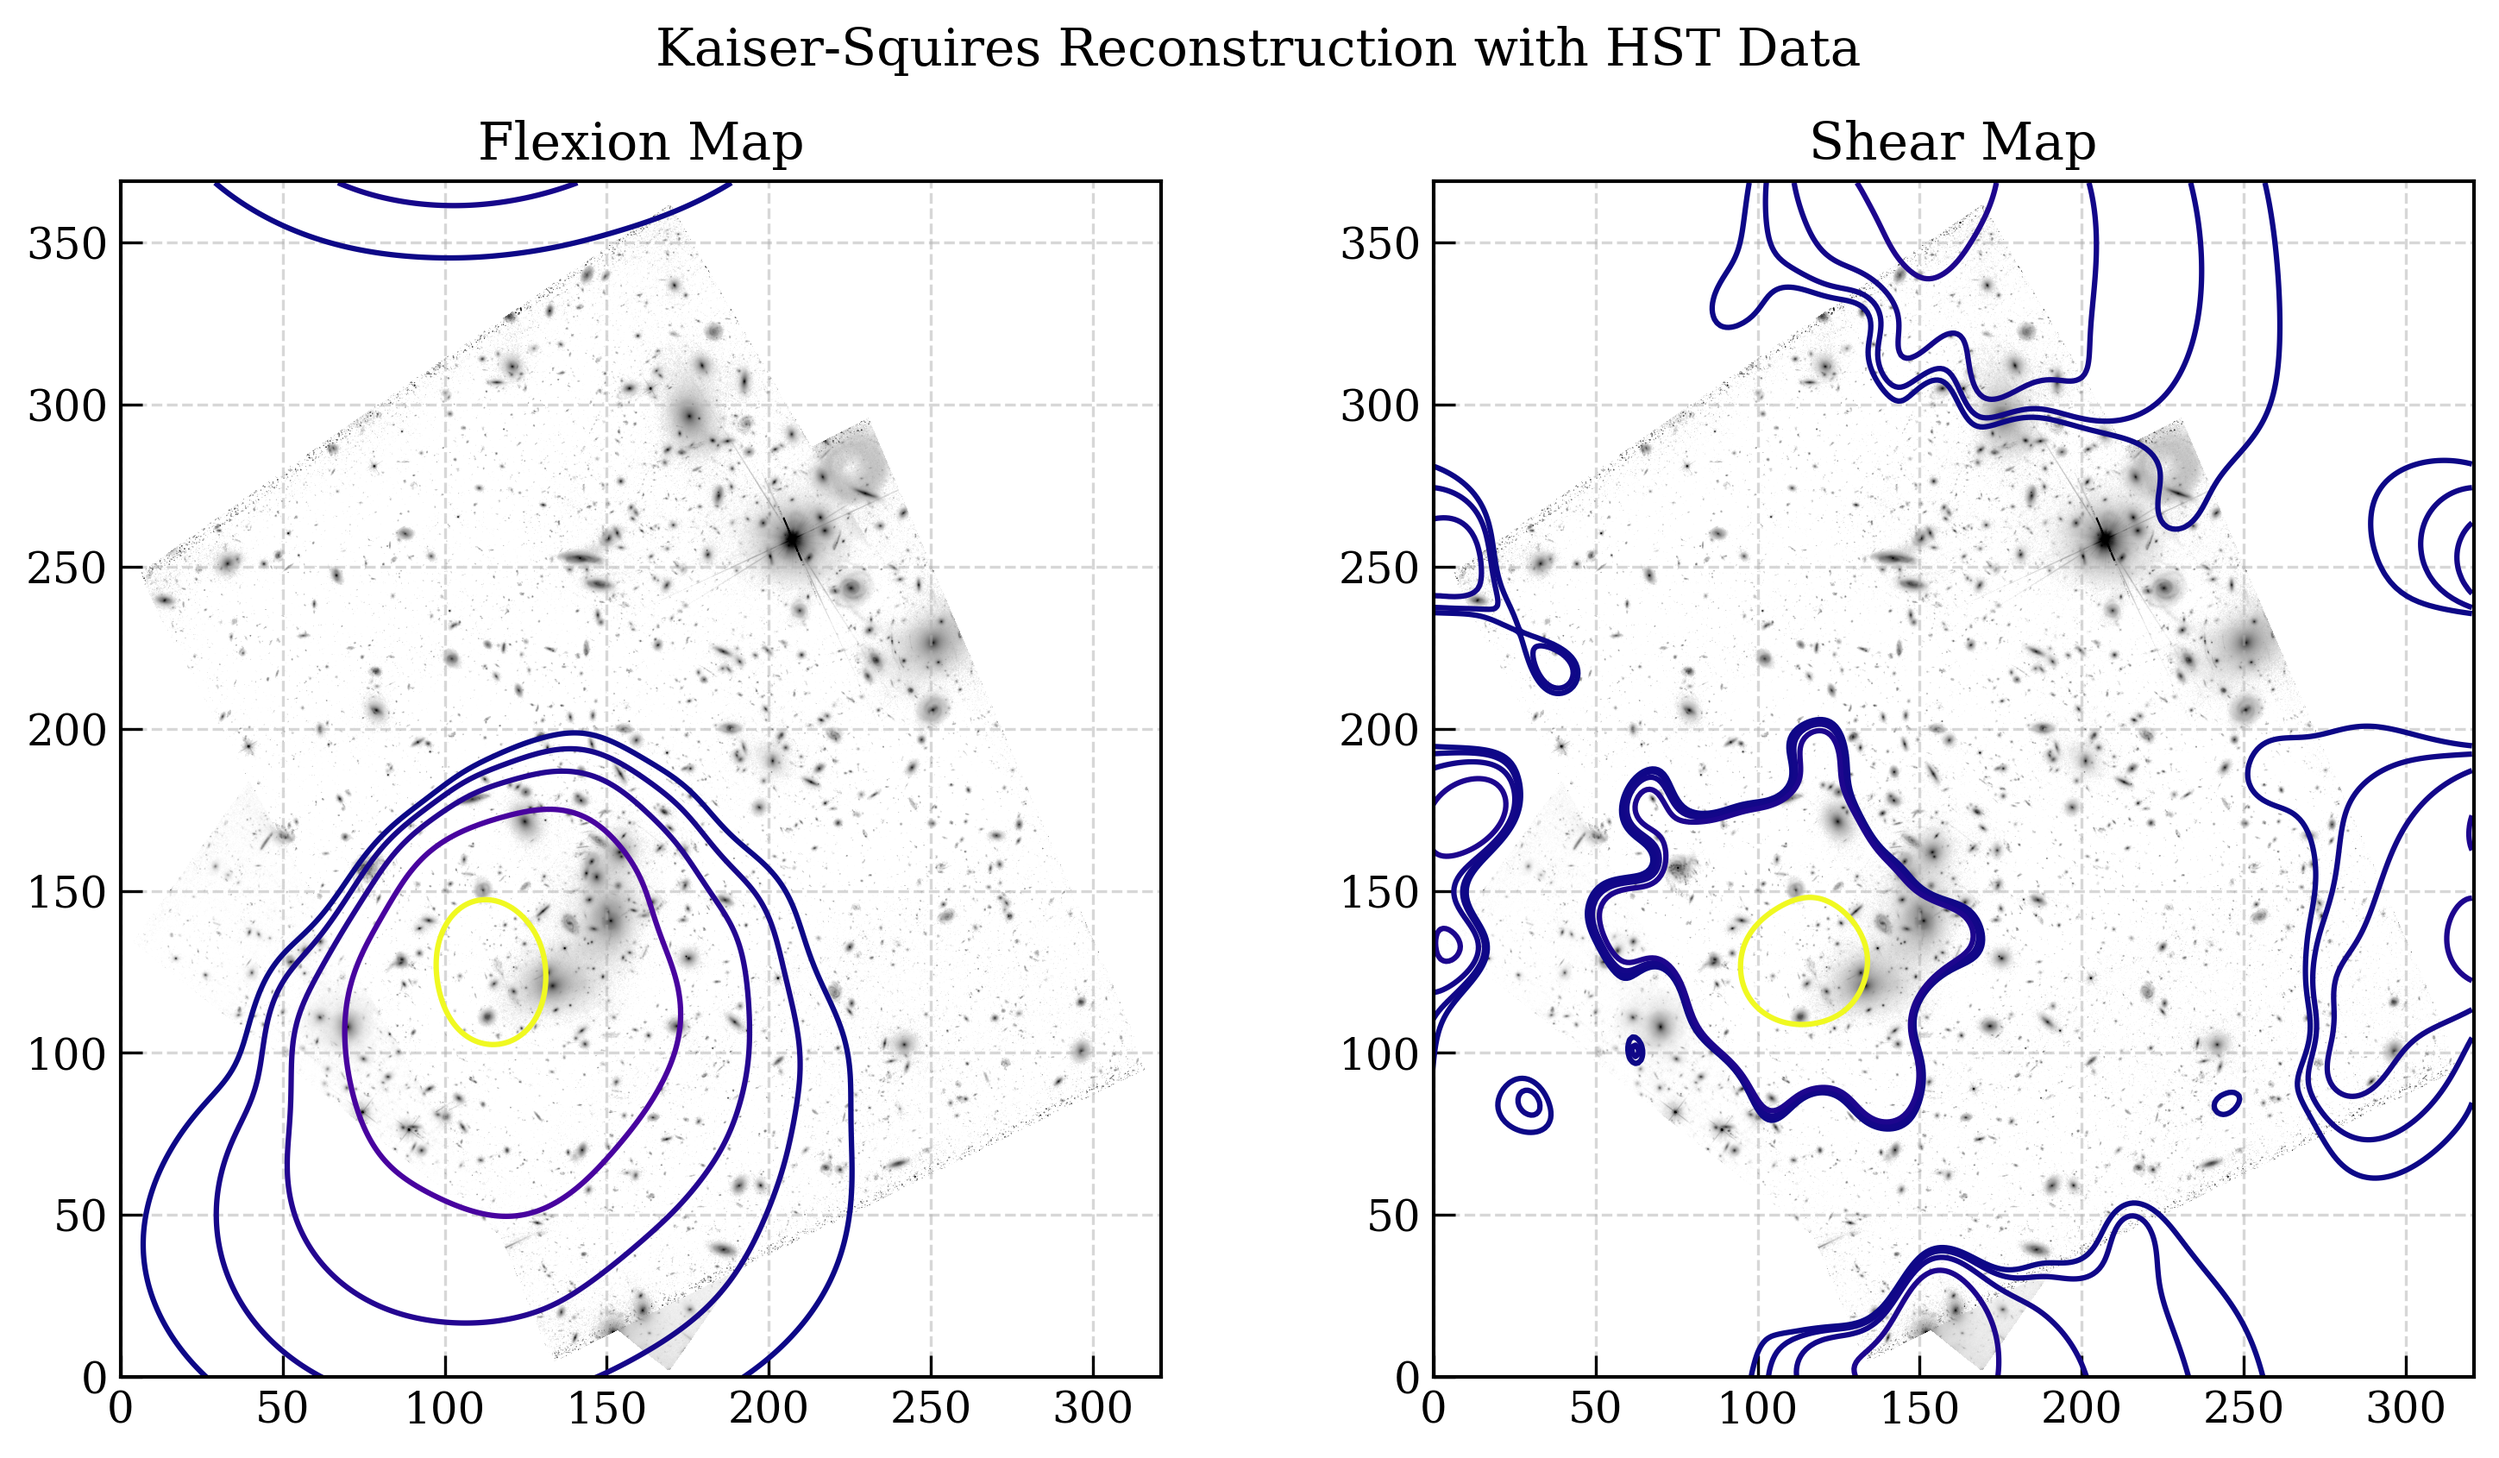
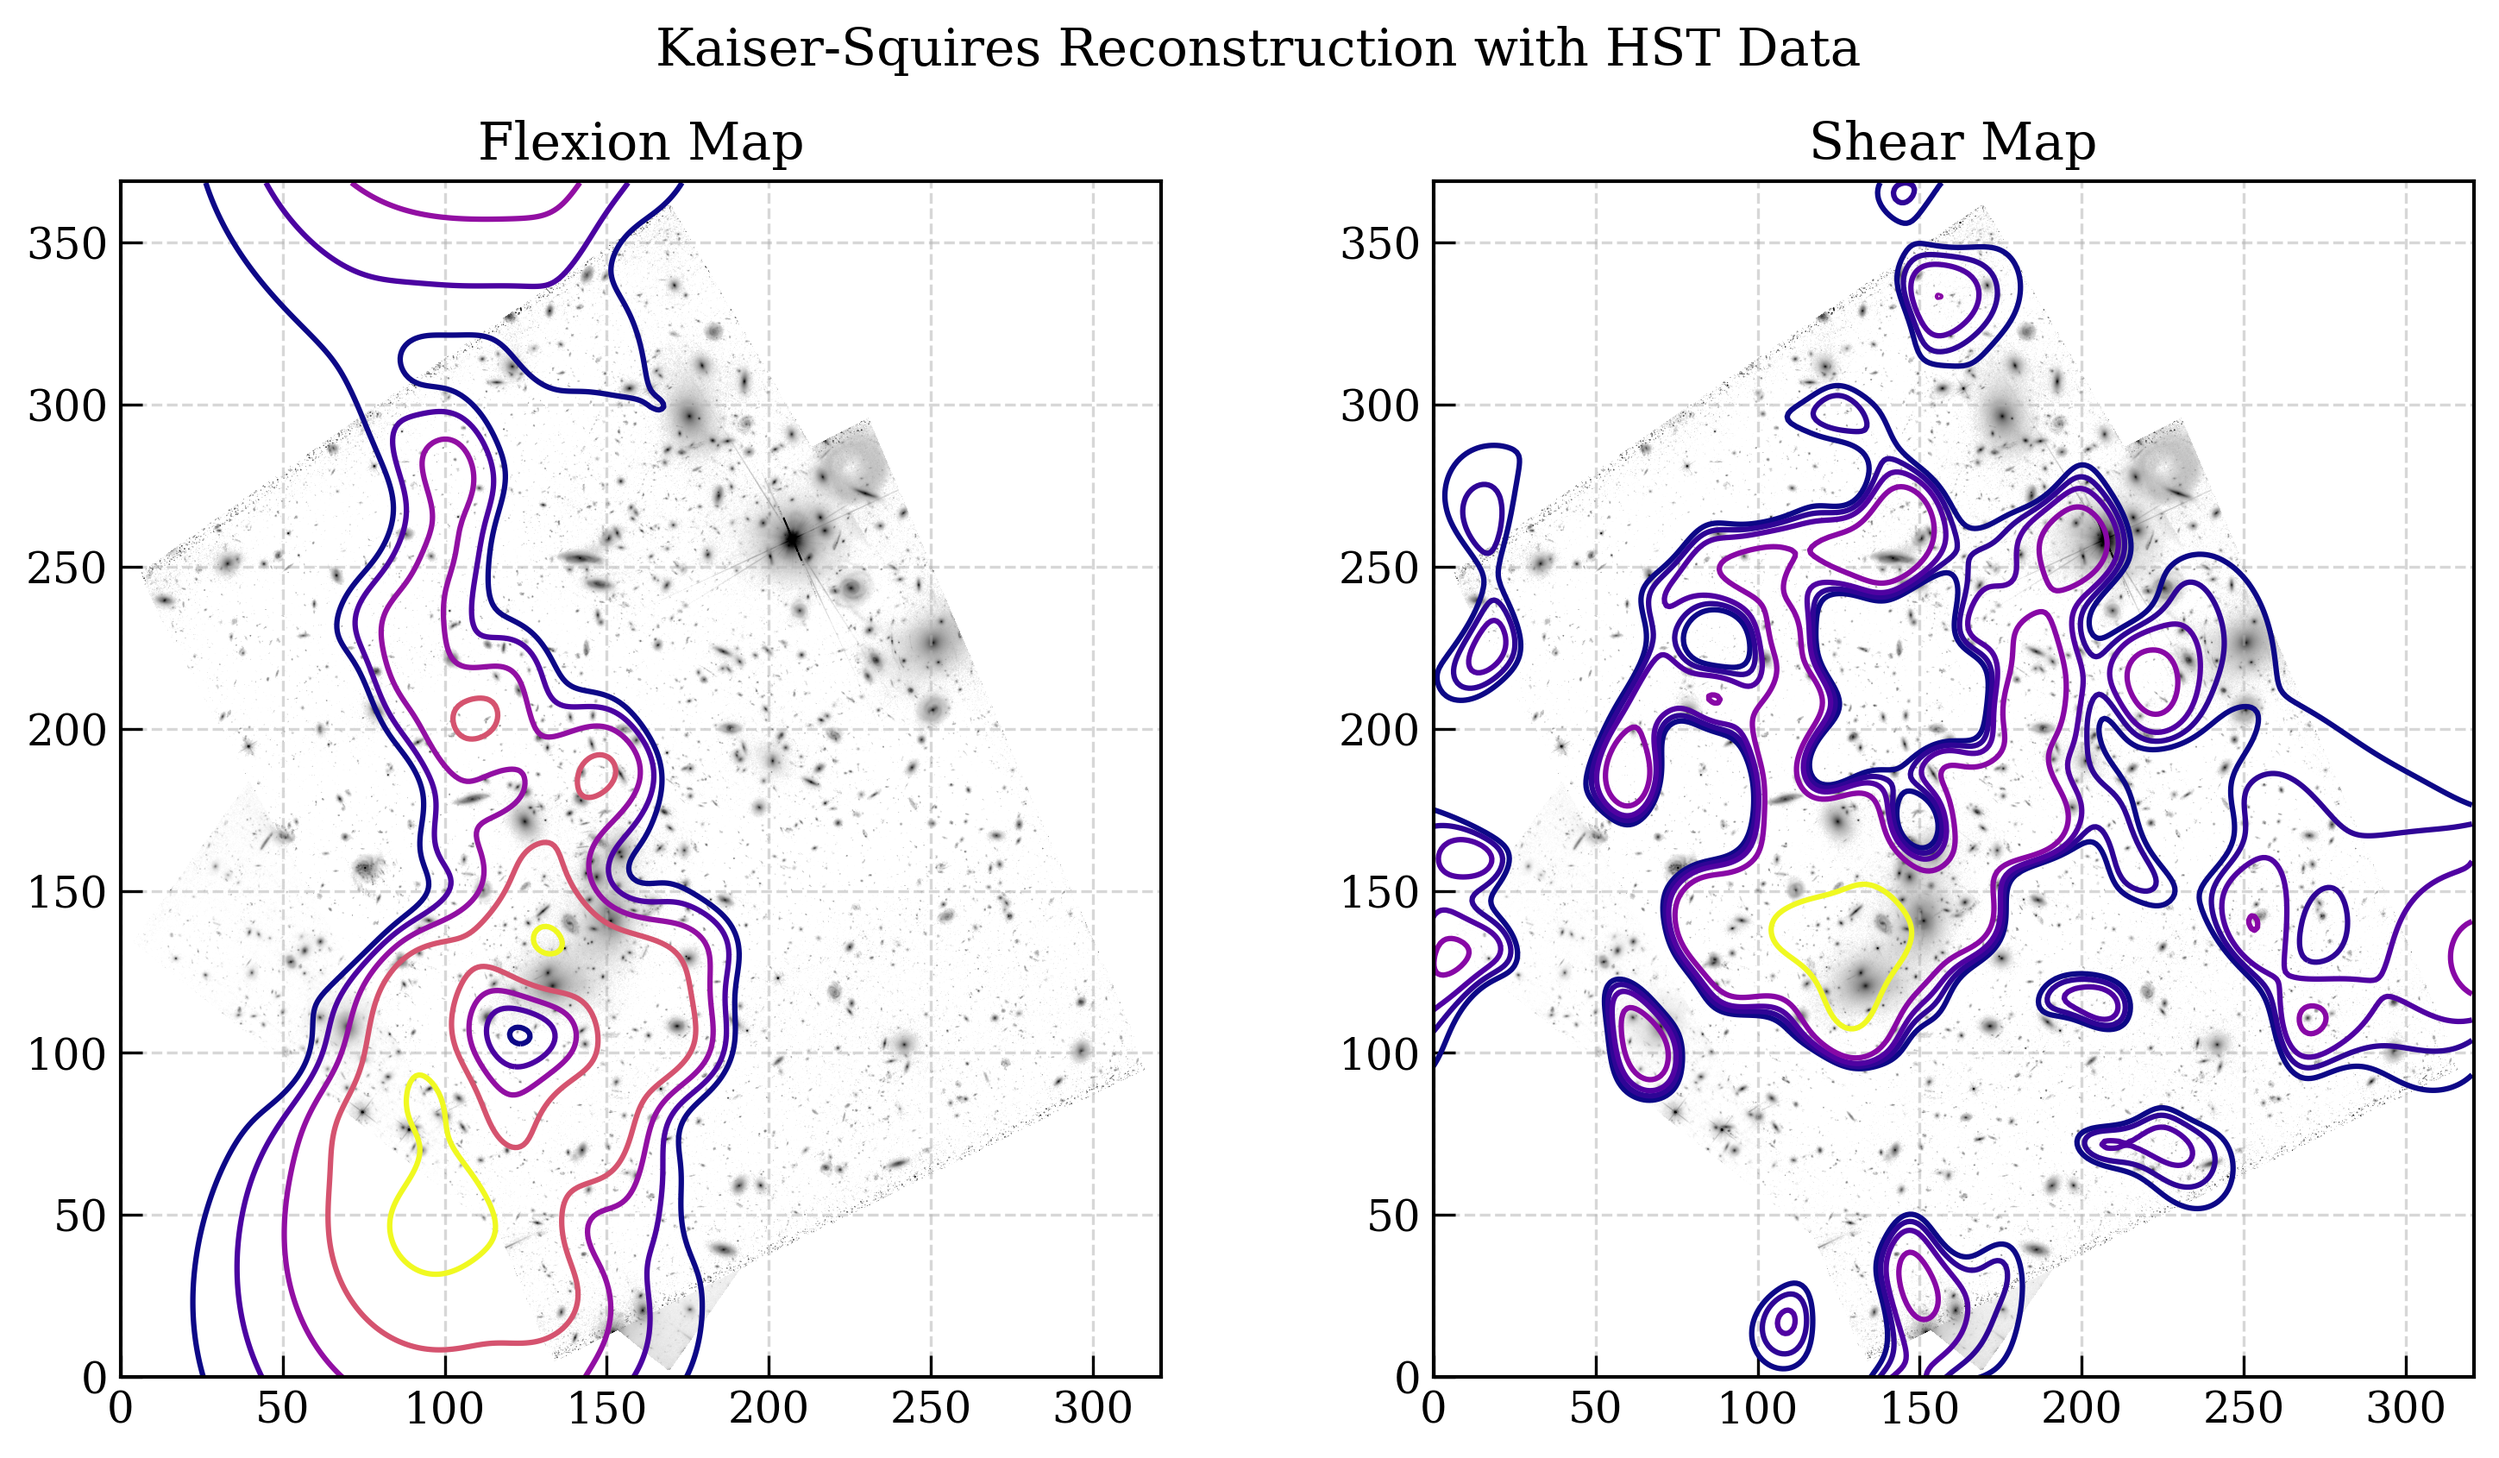
Remove source filtering based on distance from center in reconstruction function

diff --git a/read_hst.py b/read_hst.py
@@ -225,23 +225,6 @@ def reconstruct_a2744(field='cluster', full_reconstruction=False, use_flags=[Tru
         sources.apply_noise()
         '''
 
-        # Remove all sources more than 30 arcsec from the center
-        x_c, y_c = 130, 130
-        r = np.sqrt((sources.x - x_c)**2 + (sources.y - y_c)**2)
-        max_r = 30
-        sources.x = sources.x[r < max_r]
-        print(len(sources.x))
-        sources.y = sources.y[r < max_r]
-        sources.f1 = sources.f1[r < max_r]
-        sources.f2 = sources.f2[r < max_r]
-        sources.g1 = sources.g1[r < max_r]
-        sources.g2 = sources.g2[r < max_r]
-        sources.sigf = sources.sigf[r < max_r]
-        sources.sigs = sources.sigs[r < max_r]
-        sources.sigg = sources.sigg[r < max_r]
-        sources.e1 = sources.e1[r < max_r]
-        sources.e2 = sources.e2[r < max_r]
-
         X1, Y1, kappa_f = utils.perform_kaiser_squire_reconstruction(sources, extent, signal = 'flexion')
         X2, Y2, kappa_g = utils.perform_kaiser_squire_reconstruction(sources, extent, signal = 'shear')
 
